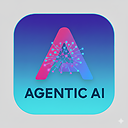
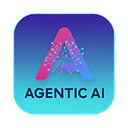
투명화 임계값 조정하여 아이콘 재생성
- 투명화 임계값을 240에서 200으로 낮춤
- 더 많은 배경 영역이 투명하게 처리됨
- 48px, 64px, 128px 아이콘 모두 업데이트

diff --git a/update_icons.py b/update_icons.py
@@ -40,9 +40,9 @@ if __name__ == "__main__":
         print(f"파일을 찾을 수 없습니다: {input_file}")
         exit(1)
     
-    # 투명 배경으로 변환
+    # 투명 배경으로 변환 (더 낮은 임계값 사용)
     print("배경을 투명하게 변환 중...")
-    transparent_img = make_background_transparent(input_file, threshold=240)
+    transparent_img = make_background_transparent(input_file, threshold=200)
     
     if transparent_img is None:
         print("투명화 실패")
